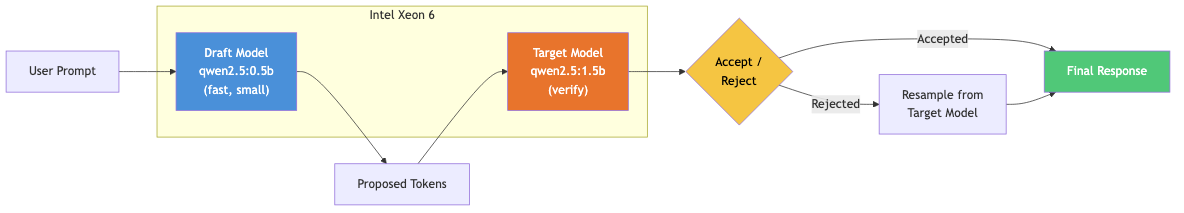
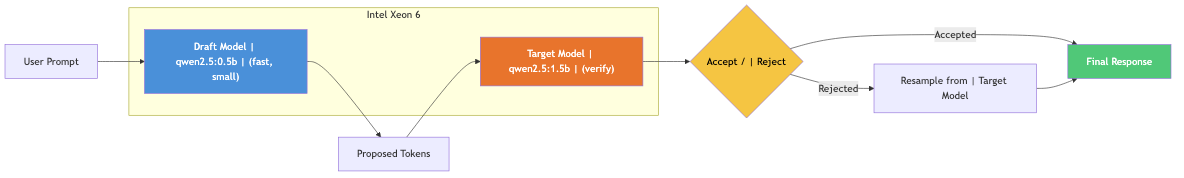
Fix Mermaid diagram: remove HTML tags for GitHub compatibility

diff --git a/README.md b/README.md
@@ -52,12 +52,12 @@ A demo mode simulates the speculative decoding comparison without requiring real
 
 ```mermaid
 flowchart LR
-    A["User Prompt"] --> B["Draft Model<br/>qwen2.5:0.5b<br/>(fast, small)"]
+    A["User Prompt"] --> B["Draft Model | qwen2.5:0.5b | (fast, small)"]
     B --> C["Proposed Tokens"]
-    C --> D["Target Model<br/>qwen2.5:1.5b<br/>(verify)"]
-    D --> E{"Accept /<br/>Reject"}
+    C --> D["Target Model | qwen2.5:1.5b | (verify)"]
+    D --> E{"Accept / | Reject"}
     E -->|Accepted| F["Final Response"]
-    E -->|Rejected| G["Resample from<br/>Target Model"]
+    E -->|Rejected| G["Resample from | Target Model"]
     G --> F
 
     subgraph Intel Xeon 6
